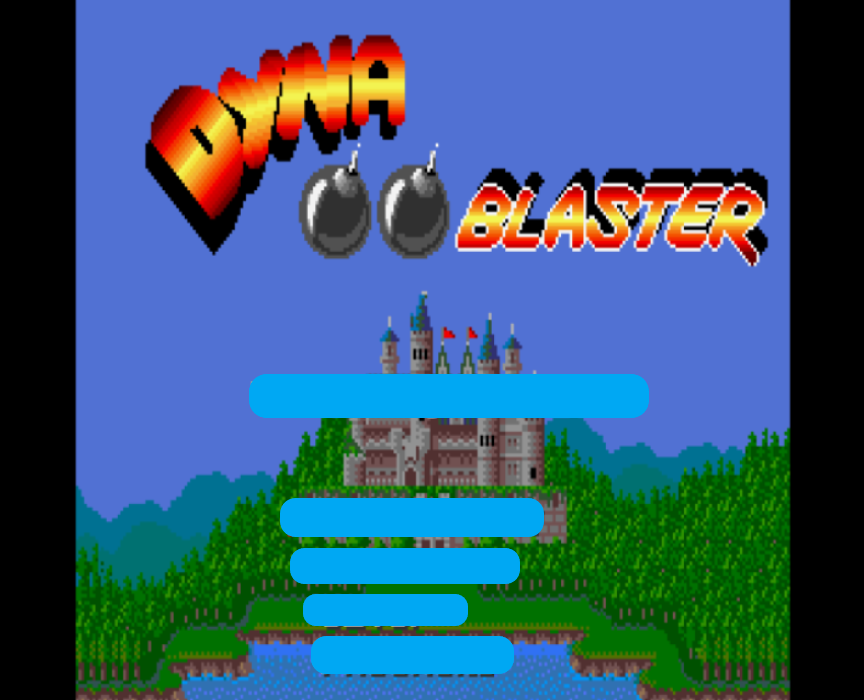
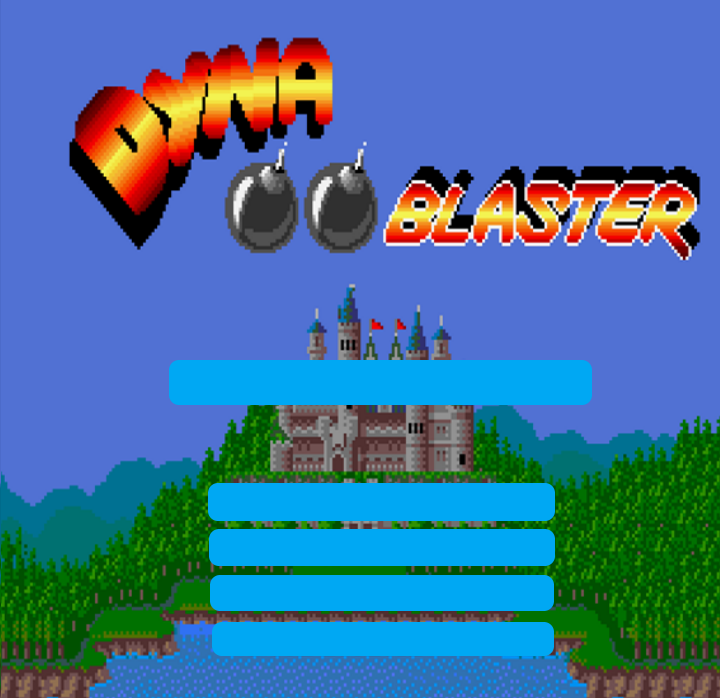
Modified Start Window design, added Back button on Game Window and made the explosion texture appear after the bomb clock expires.

diff --git a/DynaBlaster/DynaBlasterGame.cpp b/DynaBlaster/DynaBlasterGame.cpp
@@ -158,21 +158,21 @@ void DynaBlasterGame::StartWindow()
 	sf::Font colleged;
 	colleged.loadFromFile("colleged.ttf");
 
-	Button help("Help", { 200,35 }, 20, sf::Color::Transparent, sf::Color::Black);
-	help.SetPosition({ 315,638 });
-	help.SetFont(colleged);
-
 	Button play("Play", { 265,35 }, 20, sf::Color::Transparent, sf::Color::Black);
-	play.SetPosition({ 280,500 });
+	play.SetPosition({ 275,480 });
 	play.SetFont(colleged);
 
+	Button battle("Battle", { 225,35 }, 20, sf::Color::Transparent, sf::Color::Black);
+	battle.SetPosition({ 270,525 });
+	battle.SetFont(colleged);
+
 	Button level("Levels", { 170,35 }, 20, sf::Color::Transparent, sf::Color::Black);
-	level.SetPosition({ 300,590 });
+	level.SetPosition({ 285,570 });
 	level.SetFont(colleged);
 
-	Button battle("Battle", { 225,35 }, 20, sf::Color::Transparent, sf::Color::Black);
-	battle.SetPosition({ 295,550 });
-	battle.SetFont(colleged);
+	Button help("Help", { 200,35 }, 20, sf::Color::Transparent, sf::Color::Black);
+	help.SetPosition({ 290,618 });
+	help.SetFont(colleged);
 
 	logger.Log("Buttons added to the window.", Logger::Level::Info);
 
@@ -303,9 +303,9 @@ void DynaBlasterGame::GameWindow()
 	PlayerSFML player;
 	EnemySFML enemy(EnemyType::Barom);
 
-	Button back("Back", { 100,35 }, 20, sf::Color::Blue, sf::Color::White);
+	Button back("Back", { 100,35 }, 20, sf::Color::Transparent, sf::Color::White);
 	back.SetFont(colleged);
-	back.SetPosition({ 50,638 });
+	back.SetPosition({ 50, 678 });
 
 	sf::Music mapSong;
 	mapSong.openFromFile("MapDisplay.ogg");
@@ -318,14 +318,17 @@ void DynaBlasterGame::GameWindow()
 	bool spacePressed = false;
 	bool bombIsActive = false;
 	bool bigOrSmall = true;
+	bool explosionReady = false;
 	int wait = 100;
 	sf::Vector2f pPosition;
-	std::chrono::steady_clock::time_point tend = std::chrono::steady_clock::now() + std::chrono::seconds(5);
-
+	sf::Vector2f bombPosition;
+	std::chrono::steady_clock::time_point bombTimer = std::chrono::steady_clock::now() + std::chrono::seconds(6);
+	
 	while (m_window.isOpen())
 	{
 		sf::Event event;
 		sf::RectangleShape bombRect;
+		sf::RectangleShape bombExplosion;
 
 		while (m_window.pollEvent(event))
 		{
@@ -337,11 +340,11 @@ void DynaBlasterGame::GameWindow()
 			case sf::Event::MouseMoved:
 				if (back.IsMouseOver(m_window))
 				{
-					back.SetBgColor(sf::Color::Green);
+					back.SetFontSize(23);
 				}
 				else
 				{
-					back.SetBgColor(sf::Color::Blue);
+					back.SetFontSize(20);
 				}
 				break;
 			case sf::Event::MouseButtonPressed:
@@ -370,8 +373,10 @@ void DynaBlasterGame::GameWindow()
 				{
 					if (bombIsActive == false)
 					{
+						bombTimer = std::chrono::steady_clock::now() + std::chrono::seconds(6);
 						pPosition = player.GetPosition();
 						bombIsActive = true;
+						explosionReady = false;
 					}
 					spacePressed = true;
 				}
@@ -383,9 +388,13 @@ void DynaBlasterGame::GameWindow()
 		player.Move();
 		enemy.Movement();
 
-		if (spacePressed == true && std::chrono::steady_clock::now() < tend)
+		sf::Texture bombTexture;
+		sf::Texture explosionTexture;
+		if (!explosionTexture.loadFromFile("Explosion1.png", { 0 * 48, 0 * 48, 48 , 48 }))
+			std::cout << "Error" << std::endl;
+
+		if (spacePressed == true && std::chrono::steady_clock::now() < bombTimer - std::chrono::seconds(1))
 		{
-			sf::Texture bombTexture;
 			if (bigOrSmall == true)
 			{
 				if (!bombTexture.loadFromFile("Bomb.png", { 0 * 48, 0 * 48, 48 , 48 }))
@@ -398,6 +407,7 @@ void DynaBlasterGame::GameWindow()
 			}
 			bombRect.setSize({ 48,48 });
 			bombRect.setPosition(pPosition);
+			bombPosition = bombRect.getPosition();
 			bombRect.setTexture(&bombTexture);
 			m_window.draw(bombRect);
 			if (wait >= 0)
@@ -410,14 +420,28 @@ void DynaBlasterGame::GameWindow()
 				wait = 100;
 			}
 		}
-		if (spacePressed == true && std::chrono::steady_clock::now() > tend)
+		if (spacePressed == true && std::chrono::steady_clock::now() > bombTimer - std::chrono::seconds(1))
 		{
-			tend = std::chrono::steady_clock::now() + std::chrono::seconds(5);
 			spacePressed = false;
 			bombIsActive = false;
+			bombRect.setTexture(&bombTexture, true);
+			explosionReady = true;
+		}
+		if (explosionReady == true && std::chrono::steady_clock::now() < bombTimer)
+		{
+			bombExplosion.setSize({ 48,48 });
+			bombExplosion.setPosition(bombPosition);
+			bombExplosion.setTexture(&explosionTexture);
+			m_window.draw(bombExplosion);
+		}
+		if (explosionReady == true && std::chrono::steady_clock::now() > bombTimer)
+		{
+			explosionReady = false;
+			spacePressed = false;
 		}
 		m_window.draw(player.player);
 		m_window.draw(enemy.enemy);
+		back.DrawTo(m_window);
 		m_window.display();
 		m_window.clear();
 	}
